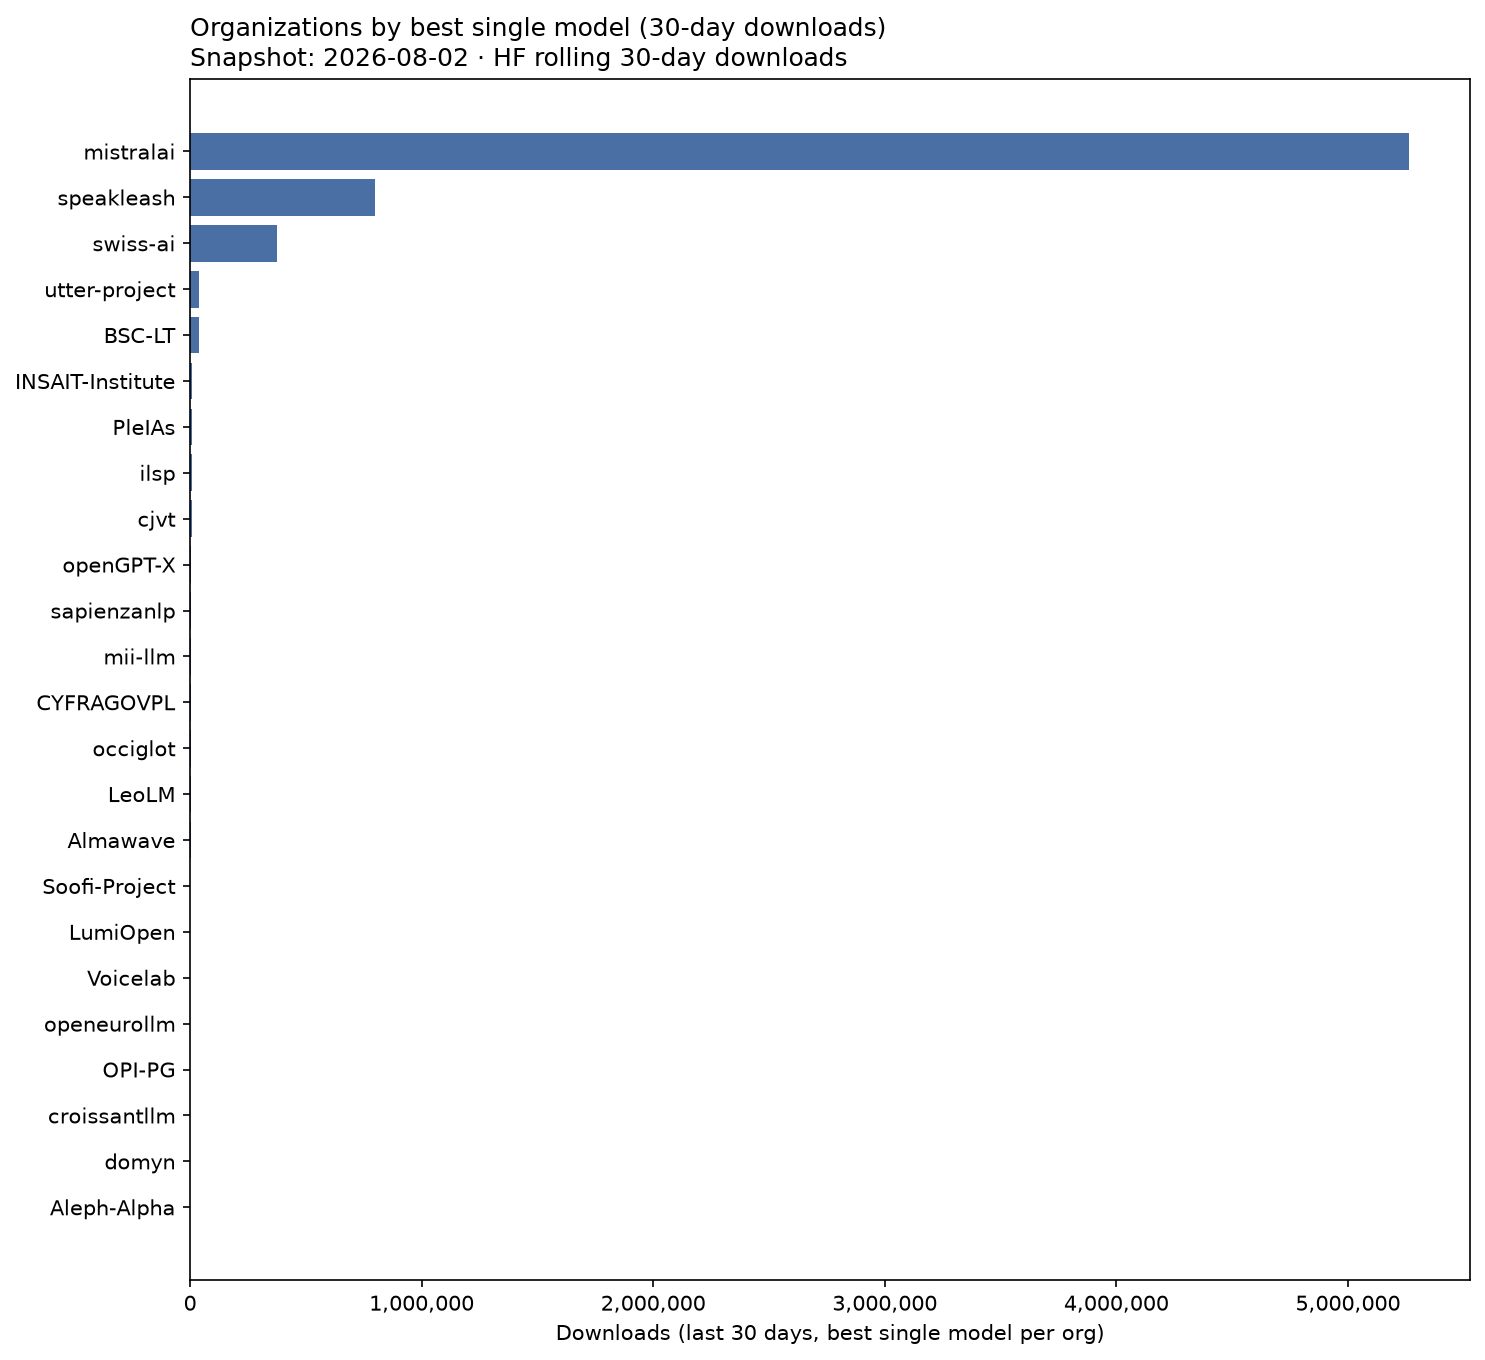
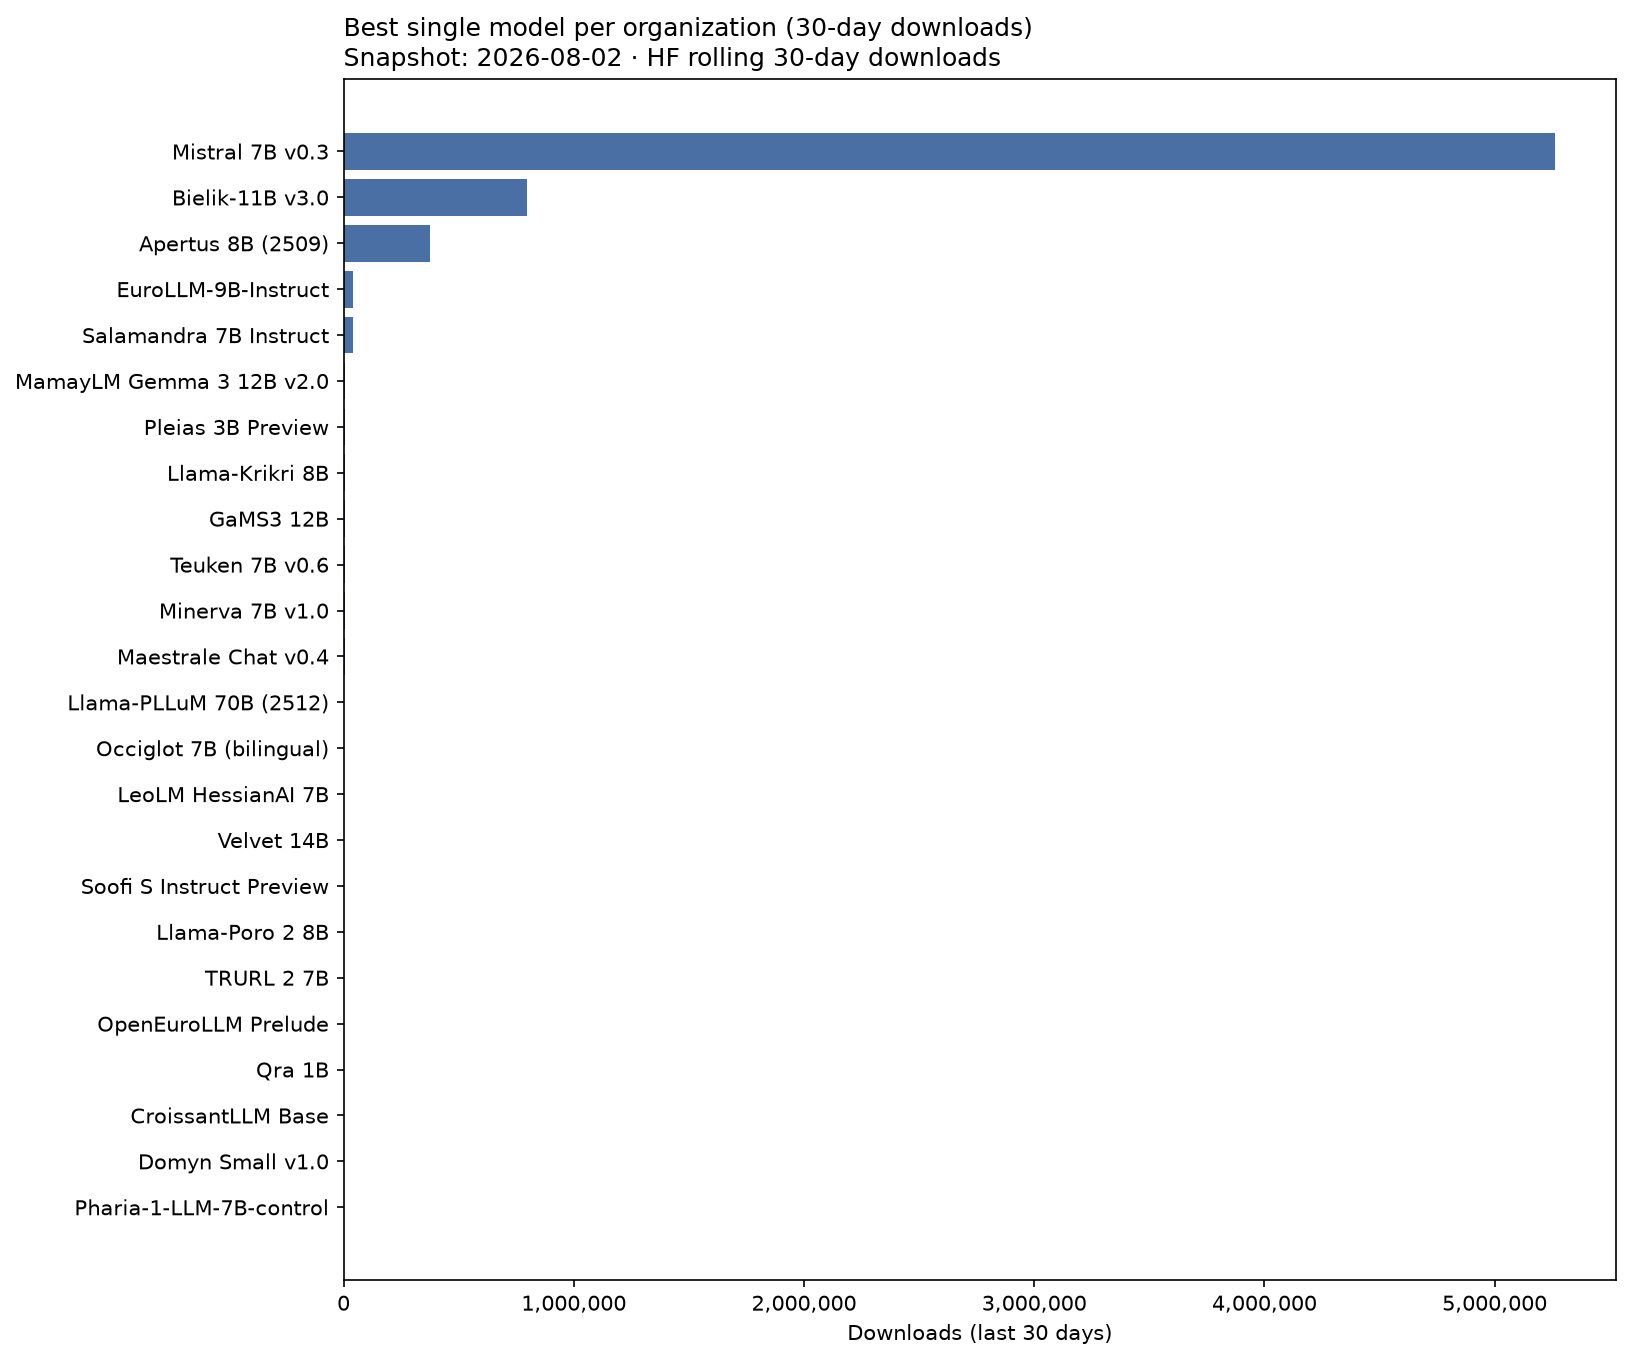
Update chart rendering script and improve visualization
- Modified the `chart_orgs_best_single_model` function in `render_charts.py` to enhance label generation for better clarity, using `top_model_display_name` or `top_model_row_id` when available.
- Increased the figure width for charts from 10 to 11 to improve layout.
- Updated the x-axis label for clarity, changing it to "Downloads (last 30 days)" and adjusted the chart title for better context.

diff --git a/scripts/render_charts.py b/scripts/render_charts.py
@@ -72,16 +72,19 @@ def chart_top_models_30d(rows: list[dict], out_dir: Path, *, top_n: int, snapsho
 
 def chart_orgs_best_single_model(org_rows: list[dict], out_dir: Path, *, snapshot_date: str | None) -> None:
     ordered = sorted(org_rows, key=lambda r: r.get("top_model_downloads_30d") or 0)
-    labels = [r["official_org"] for r in ordered]
+    labels = [
+        r.get("top_model_display_name") or r.get("top_model_row_id") or r["official_org"]
+        for r in ordered
+    ]
     values = [r.get("top_model_downloads_30d") or 0 for r in ordered]
 
     fig_h = max(4.0, 0.32 * len(ordered) + 1.5)
-    fig, ax = plt.subplots(figsize=(10, fig_h))
+    fig, ax = plt.subplots(figsize=(11, fig_h))
     ax.barh(labels, values, color=BAR_COLOR)
-    ax.set_xlabel("Downloads (last 30 days, best single model per org)")
+    ax.set_xlabel("Downloads (last 30 days)")
     set_title_with_snapshot(
         ax,
-        "Organizations by best single model (30-day downloads)",
+        "Best single model per organization (30-day downloads)",
         snapshot_date,
     )
     ax.xaxis.set_major_formatter(matplotlib.ticker.FuncFormatter(lambda x, _: f"{x:,.0f}"))
